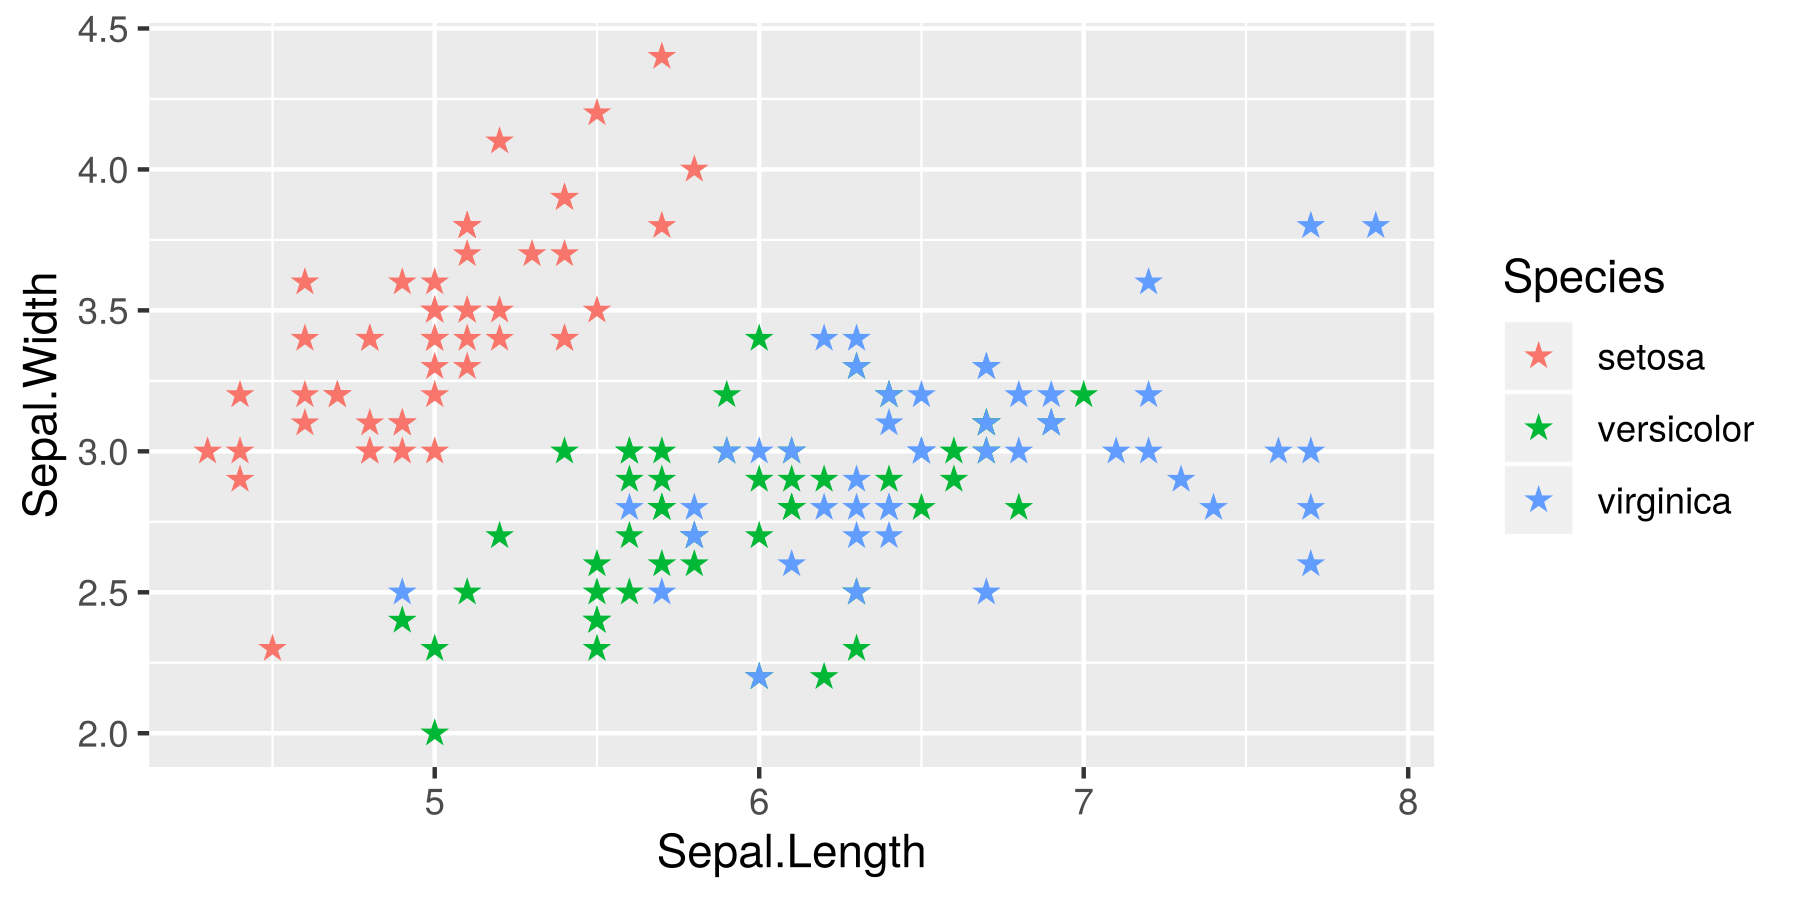
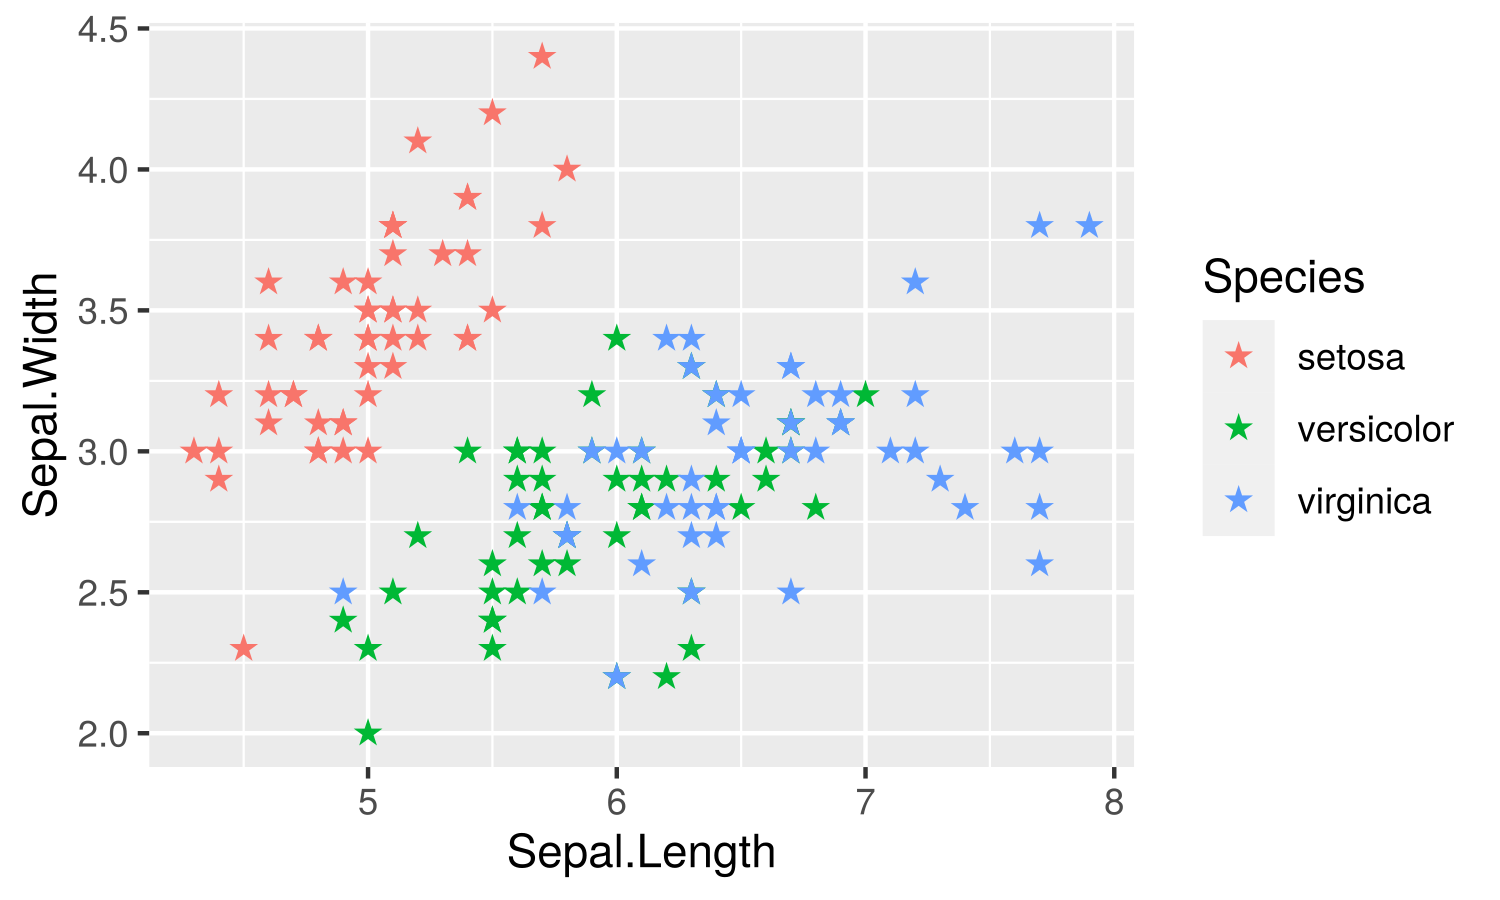
update README

diff --git a/README.md b/README.md
@@ -45,3 +45,15 @@ p2
 ![](README_files/figure-gfm/iris-1.svg)<!-- -->
 
 ![](./inst/extdata/figure2.png)
+
+``` r
+p3 <- ggplot(data=iris,
+             mapping=aes(x=Sepal.Length,
+                         y=Sepal.Width,
+                         fill=Species,
+                         starshape=Species)) +
+      geom_star() + scale_starshape_manual(values=c(1, 2, 9))
+p3
+```
+
+![](README_files/figure-gfm/iris_shape-1.svg)<!-- -->
